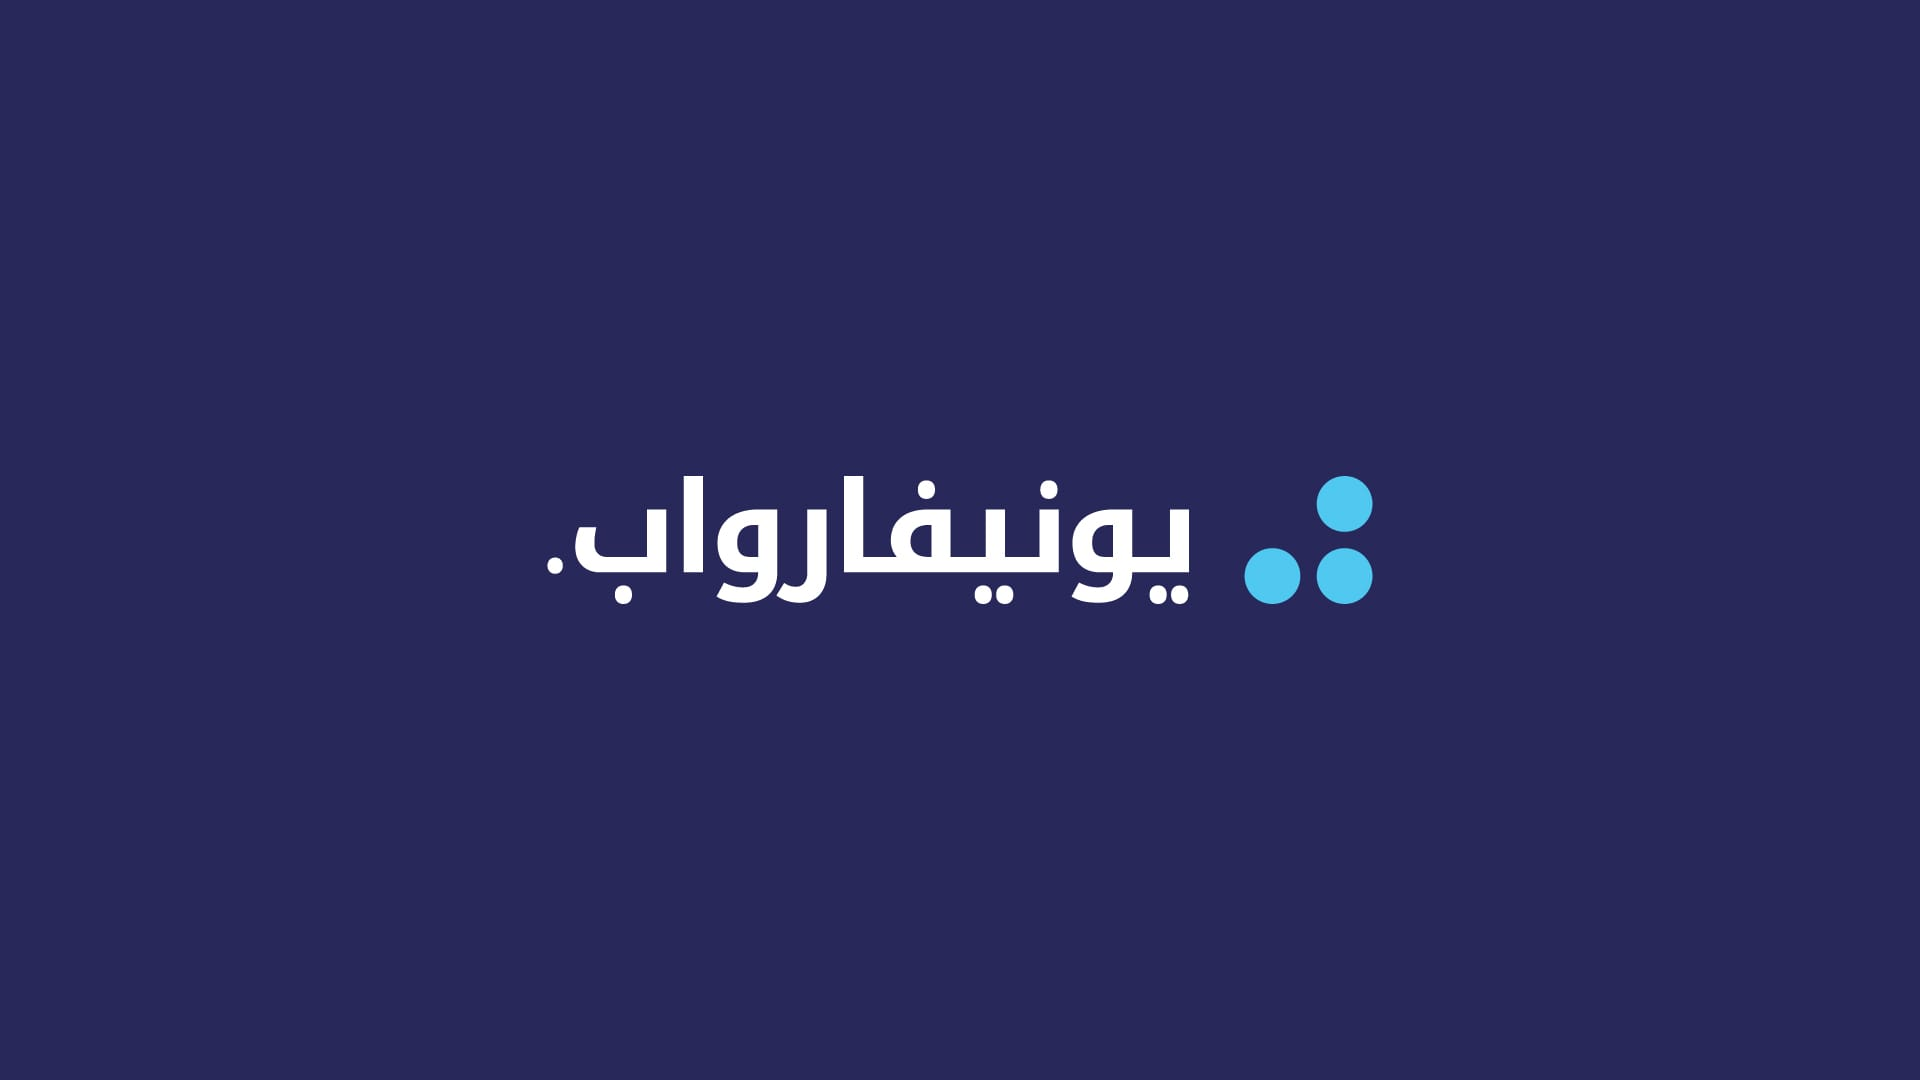
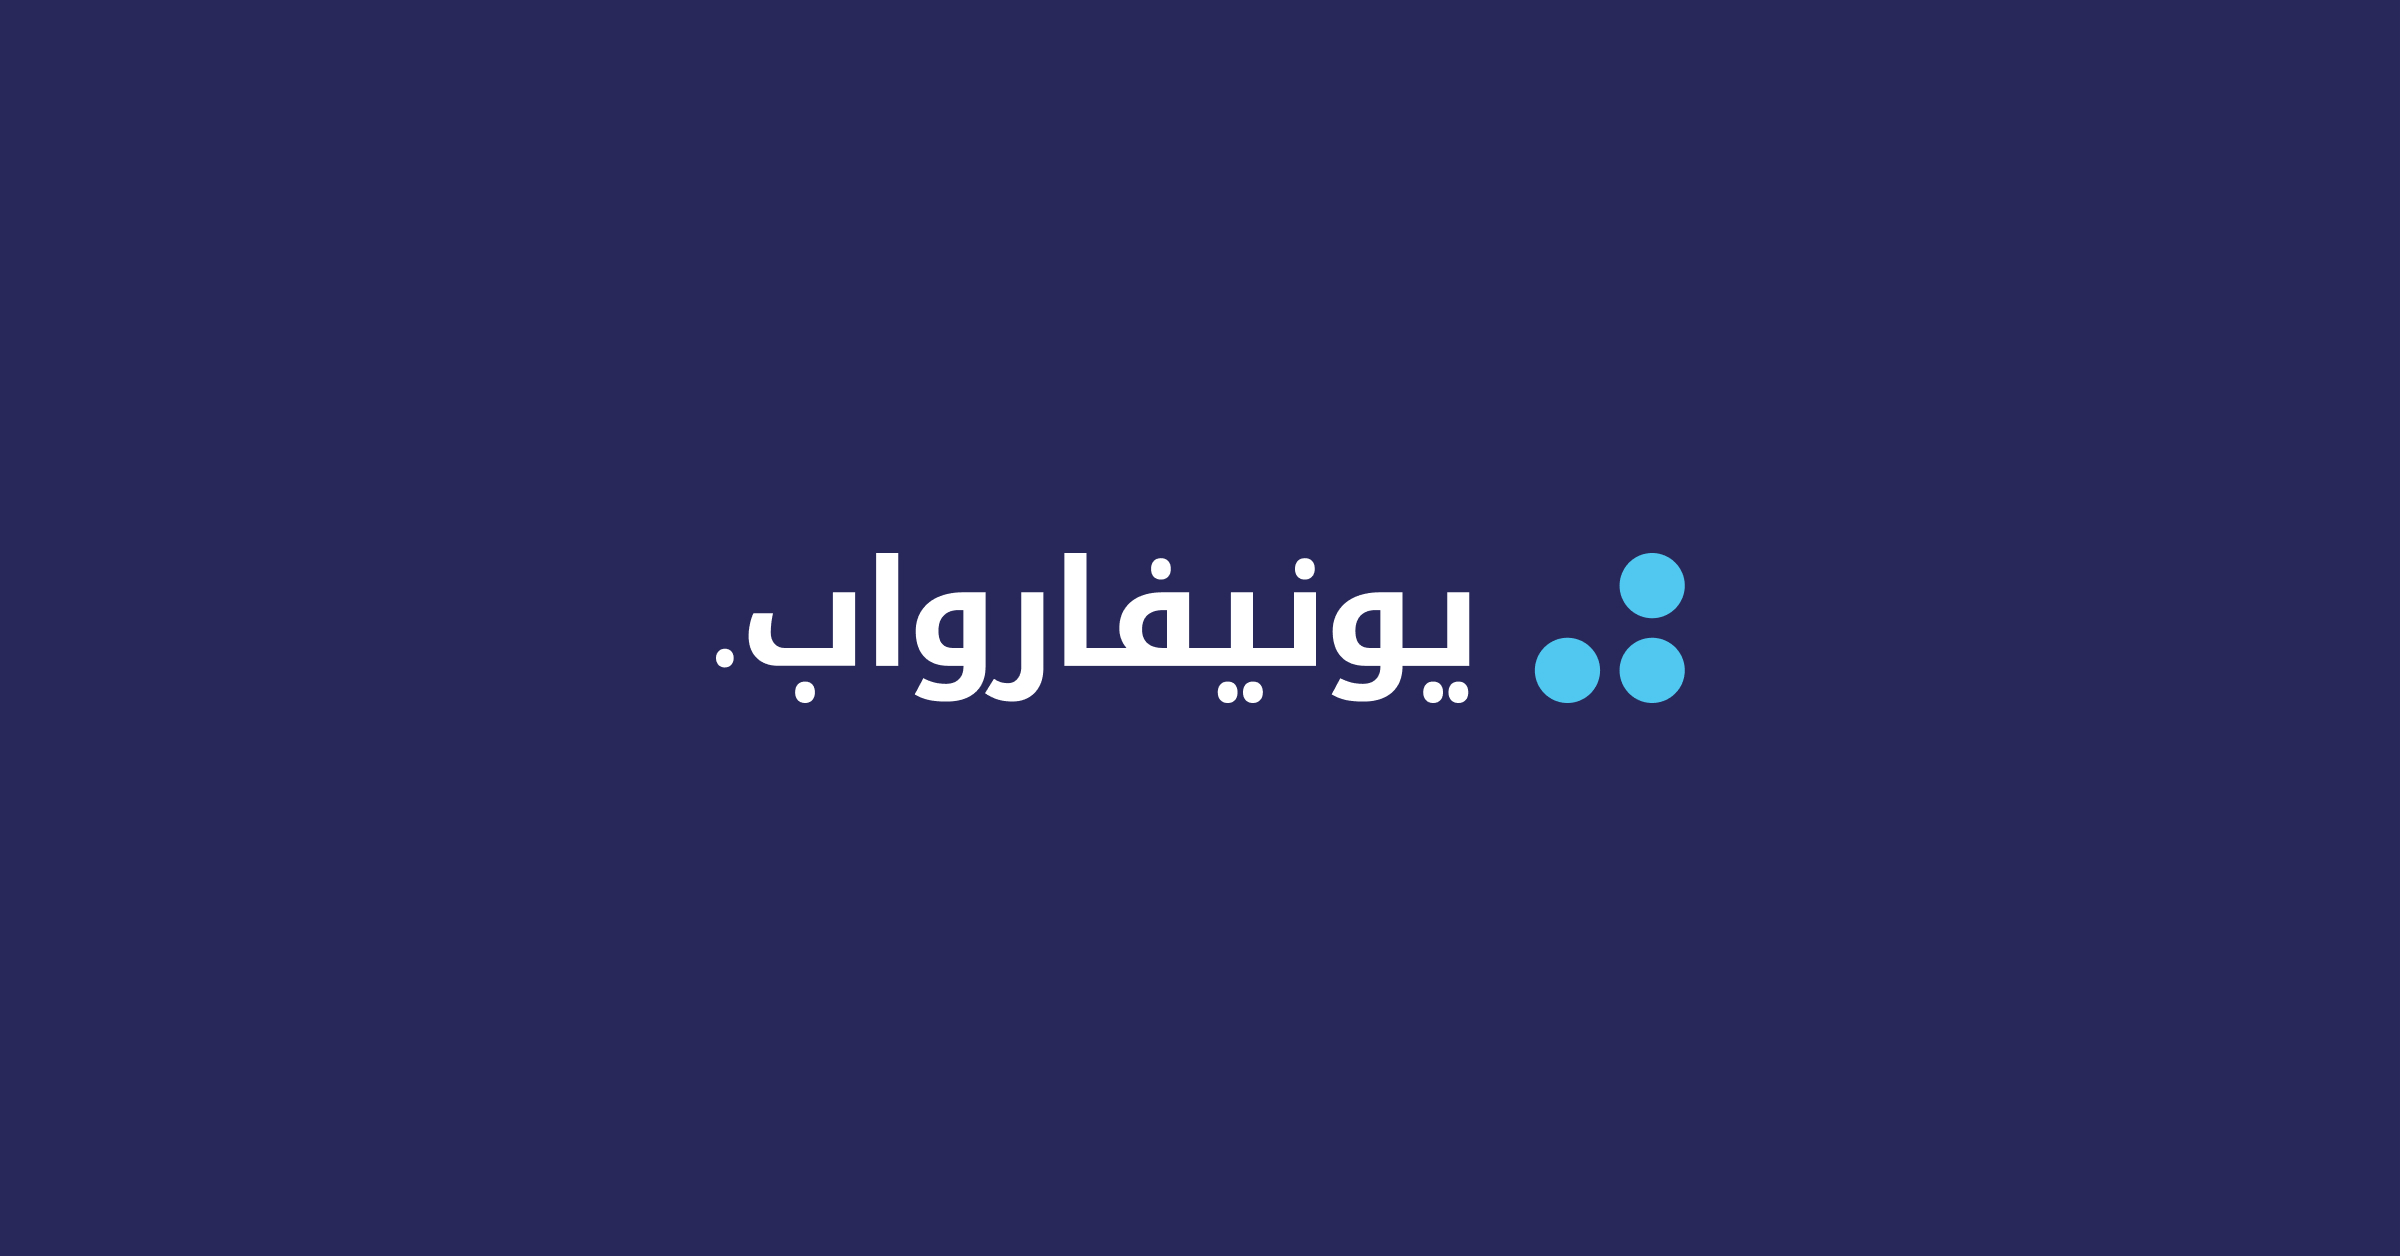
add: twitterCard

Changed region(s): [[0.5312, 0.4278, 0.7188, 0.5806], [0.2812, 0.4278, 0.5, 0.5806]]

diff --git a/pages/realisations/[slug].vue b/pages/realisations/[slug].vue
@@ -6,7 +6,7 @@ const { t } = useI18n()
 const { baseUrl, localeBaseUrl } = useUrl()
 const { path, params: { slug } } = useRoute()
 const img = useImage()
-const ogImagePath = img(`realisations/${slug}_banner.png`, { width: 2560, height: 1280, quality: 80 })
+const ogImagePath = img(`realisations/${slug}_banner.png`, { width: 2400, height: 1256, quality: 80 })
 
 const { data: post } = await useAsyncData(
   `post${path}`,
@@ -50,8 +50,12 @@ useSeoMeta({
   title: post.value.title,
   description: post.value.description,
   ogTitle: post.value.title,
+  ogDescription: post.value.description,
   ogType: 'article',
   ogImage: `${baseUrl}${ogImagePath}`,
+  twitterTitle: post.value.title,
+  twitterDescription: post.value.description,
+  twitterImage: `${baseUrl}${ogImagePath}`,
 })
 
 useHead({

diff --git a/pages/blog/[slug].vue b/pages/blog/[slug].vue
@@ -6,7 +6,7 @@ const { locale, t } = useI18n()
 const { baseUrl, localeBaseUrl } = useUrl()
 const { path, params: { slug } } = useRoute()
 const img = useImage()
-const ogImagePath = img(`blog/${slug}_banner.jpg`, { width: 2400, height: 1350, quality: 80 })
+const ogImagePath = img(`blog/${slug}_banner.jpg`, { width: 2400, height: 1256, quality: 80 })
 
 const { data: post } = await useAsyncData(
   `post${path}`,
@@ -40,8 +40,12 @@ useSeoMeta({
   title: post.value.title,
   description: post.value.description,
   ogTitle: post.value.title,
+  ogDescription: post.value.description,
   ogType: 'article',
   ogImage: `${baseUrl}${ogImagePath}`,
+  twitterTitle: post.value.title,
+  twitterDescription: post.value.description,
+  twitterImage: `${baseUrl}${ogImagePath}`,
 })
 
 useHead({

diff --git a/pages/contact.vue b/pages/contact.vue
@@ -2,6 +2,7 @@
 import { GoogleMap, Marker } from 'vue3-google-map'
 
 const { t } = useI18n()
+const meta = useMeta('contact')
 const breadcrumb = useBreadcrumb('contact')
 const config = useRuntimeConfig()
 
@@ -30,15 +31,8 @@ function zoom() {
   }
 }
 
-useSeoMeta({
-  title: () => t('contact.title'),
-  description: t('contact.desc'),
-  ogTitle: t('contact.title'),
-})
-
-useHead({
-  script: [breadcrumb],
-})
+useSeoMeta(meta)
+useHead({ script: [breadcrumb] })
 </script>
 
 <template>

diff --git a/app.vue b/app.vue
@@ -14,9 +14,14 @@ useSeoMeta({
   titleTemplate: (titleChunk) => { return titleChunk ? `${titleChunk} — ${t('name')}` : `${t('title')} — ${t('name')}` },
   description: () => t('desc'),
   ogTitle: () => t('title'),
+  ogDescription: () => t('desc'),
   ogType: 'website',
   ogUrl,
   ogImage,
+  twitterCard: 'summary_large_image',
+  twitterTitle: () => t('title'),
+  twitterDescription: () => t('desc'),
+  twitterImage: ogImage,
 })
 
 useHead({

diff --git a/pages/blog/index.vue b/pages/blog/index.vue
@@ -1,17 +1,9 @@
 <script setup lang="ts">
-const { t } = useI18n()
+const meta = useMeta('blog')
 const breadcrumb = useBreadcrumb('blog')
 
-useSeoMeta({
-  title: t('blog.title'),
-  description: t('blog.desc'),
-  ogTitle: t('blog.title'),
-  ogDescription: t('blog.desc'),
-})
-
-useHead({
-  script: [breadcrumb],
-})
+useSeoMeta(meta)
+useHead({ script: [breadcrumb] })
 </script>
 
 <template>

diff --git a/pages/agence.vue b/pages/agence.vue
@@ -1,16 +1,10 @@
 <script setup lang="ts">
 const { t, tm, rt } = useI18n()
+const meta = useMeta('agency')
 const breadcrumb = useBreadcrumb('agency')
 
-useSeoMeta({
-  title: () => t('agency.title'),
-  description: t('agency.desc'),
-  ogTitle: t('agency.title'),
-})
-
-useHead({
-  script: [breadcrumb],
-})
+useSeoMeta(meta)
+useHead({ script: [breadcrumb] })
 </script>
 
 <template>

diff --git a/pages/prestations.vue b/pages/prestations.vue
@@ -1,16 +1,10 @@
 <script setup lang="ts">
 const { t, tm, rt } = useI18n()
+const meta = useMeta('presta')
 const breadcrumb = useBreadcrumb('presta')
 
-useSeoMeta({
-  title: () => t('presta.title'),
-  description: t('presta.desc'),
-  ogTitle: t('presta.title'),
-})
-
-useHead({
-  script: [breadcrumb],
-})
+useSeoMeta(meta)
+useHead({ script: [breadcrumb] })
 </script>
 
 <template>

diff --git a/pages/realisations/index.vue b/pages/realisations/index.vue
@@ -1,16 +1,9 @@
 <script setup lang="ts">
-const { t } = useI18n()
+const meta = useMeta('works')
 const breadcrumb = useBreadcrumb('works')
 
-useSeoMeta({
-  title: () => t('works.title'),
-  description: t('works.desc'),
-  ogTitle: t('works.title'),
-})
-
-useHead({
-  script: [breadcrumb],
-})
+useSeoMeta(meta)
+useHead({ script: [breadcrumb] })
 </script>
 
 <template>

diff --git a/composables/useMeta.ts b/composables/useMeta.ts
@@ -1,0 +1,15 @@
+export function useMeta(page: string) {
+  const { t } = useI18n()
+
+  const title = () => t(`${page}.title`)
+  const description = () => t(`${page}.desc`)
+
+  return {
+    title,
+    description,
+    ogTitle: title,
+    ogDescription: description,
+    twitterTitle: title,
+    twitterDescription: description,
+  }
+}
